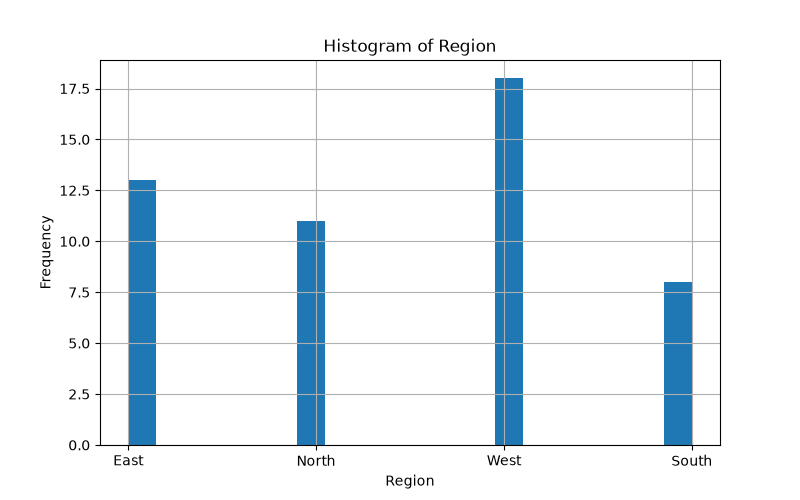
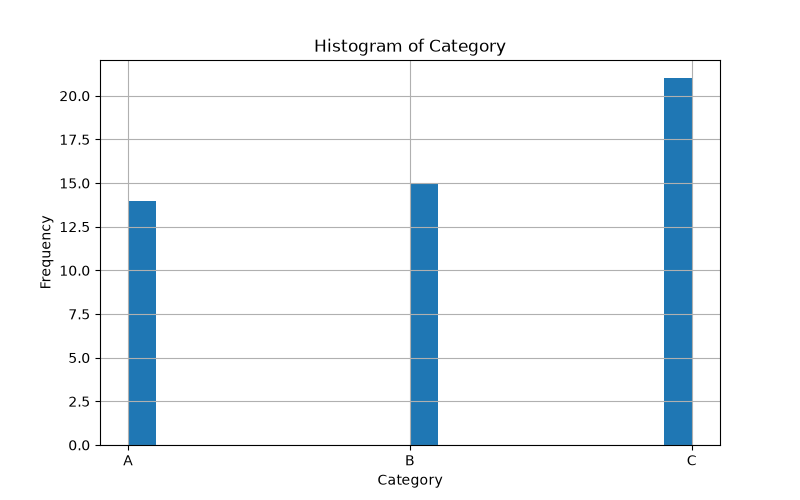
add box plot visualization

diff --git a/templates/index.html b/templates/index.html
@@ -120,7 +120,23 @@
         <h3>Histogram</h3>
         <img src="{{ url_for('static', filename=histogram_image) }}", alt="Histogram">
     {% endif %}
-    
+
+    <form action="/show_boxplot" method="post">
+        <label for="box_column">Select Column:</label>
+        <select name="column" id="box_column">
+            {% for column in column_names %}
+                <option value="{{ column }}">
+                    {{ column }}
+                </option>
+            {% endfor %}
+        </select>
+        <button type="submit">Show Box Plot</button>
+    </form>
+    {% if boxplot_image %}
+        <h3>Box Plot</h3>
+        <img src="{{ url_for('static', filename=boxplot_image) }}" alt="Box Plot">
+    {% endif %}
+
 <p>Project Under Development</p>
 </body>
 </html>

diff --git a/app.py b/app.py
@@ -239,5 +239,33 @@ def show_histogram():
                             duplicate_rows = duplicate_rows,
                             histogram_image="histogram.png")
 
[email redacted]("/show_boxplot", methods=["POST"])
+def show_boxplot():
+    selected_column = request.form.get("column")
+    file_path = session.get("file_path")
+    if file_path is None:
+          return "Please upload a file first"
+    
+    df = pd.read_csv(file_path)
+    column_data = df[selected_column]
+    plt.figure(figsize=(8,5))
+    plt.boxplot(column_data)
+    plt.title(f"Box Plot of {selected_column}")
+    plt.ylabel(selected_column)
+    plt.grid(True)
+    plt.savefig("static/boxplot.png")
+    plt.close()
+
+    rows, columns, column_names, missing_values_html, duplicate_rows, table = generate_dataset_report(df)
+
+    return render_template("index.html",
+                            table=table, 
+                            rows=rows,
+                            columns=columns,
+                            column_names=column_names,
+                            missing_values = missing_values_html,
+                            duplicate_rows = duplicate_rows,
+                            boxplot_image="boxplot.png")
+
 if __name__ == "__main__":
     app.run(debug = True, port=5001)